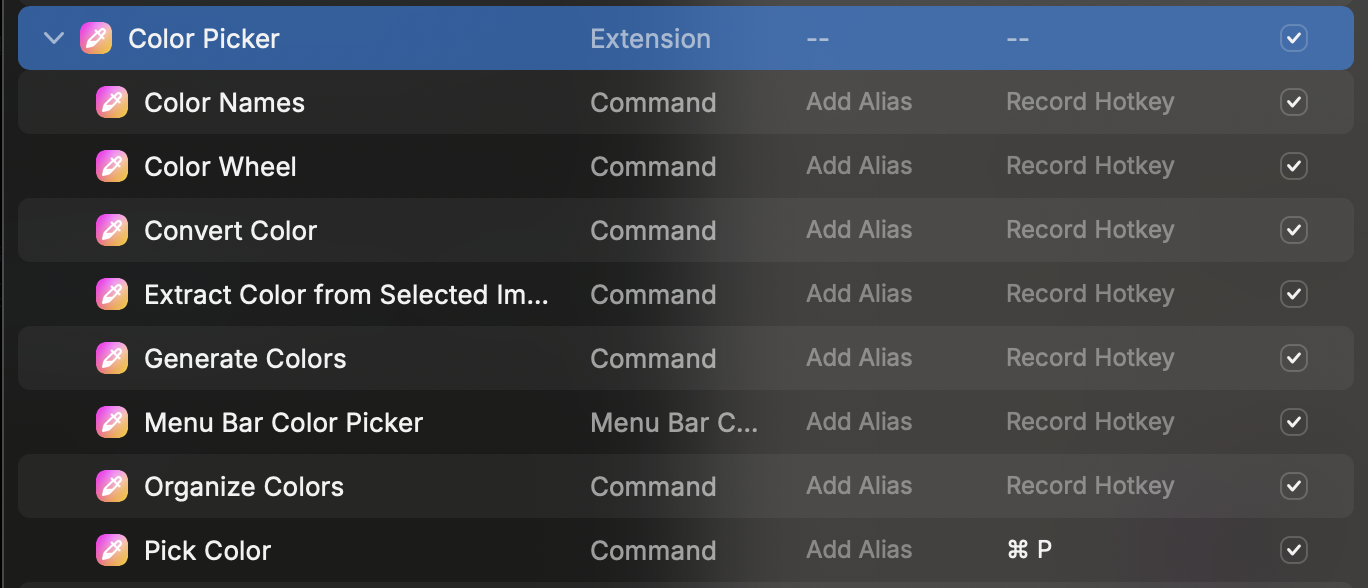
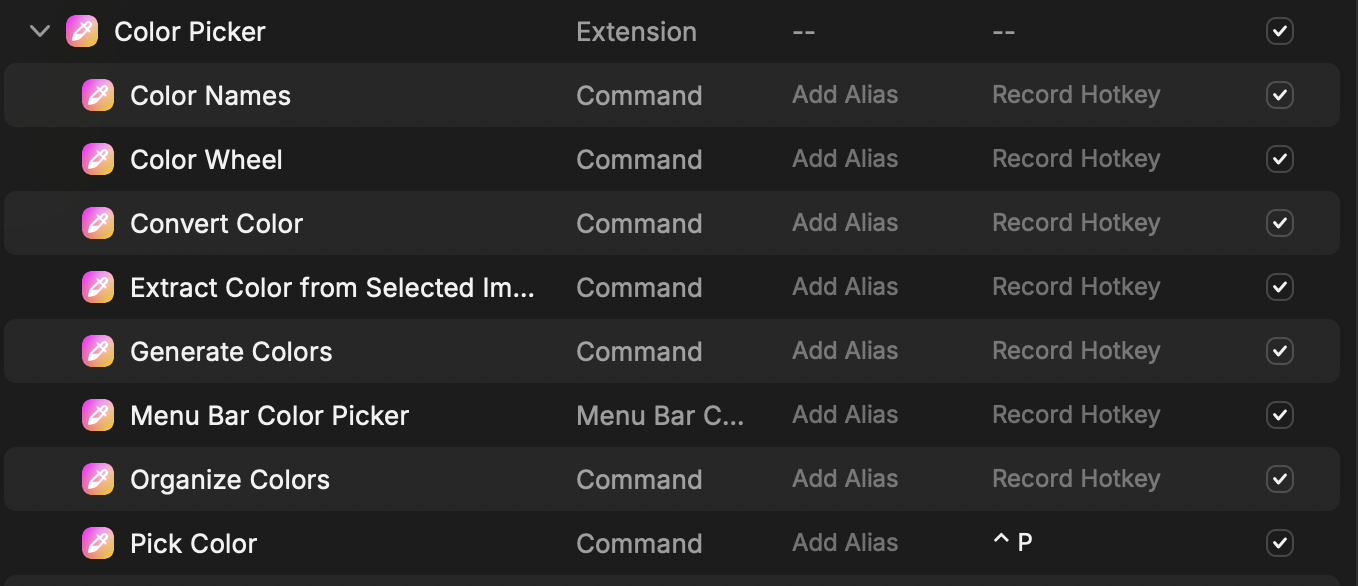
update obsidian.md and raycast.md

diff --git a/docs/obsidian.md b/docs/obsidian.md
@@ -88,6 +88,8 @@ dv.table(
 ```
 ````
 
+### [Multi-column Markdown](https://github.com/ckRobinson/multi-column-markdown)
+
 ## 参考
 
 - [メモ管理は Obsidian in Cursor が最強](https://note.com/shotovim/n/na1d91f10c1d0)

diff --git a/docs/raycast.md b/docs/raycast.md
@@ -10,7 +10,7 @@
 
 ### [Color Picker](https://www.raycast.com/thomas/color-picker)
 
-Hotkey を設定（`⌘ + P`）
+Hotkey を設定（`^ + P`）
 
 ![](../assets/img/raycast_extensions_color_picker_01.png)
 
